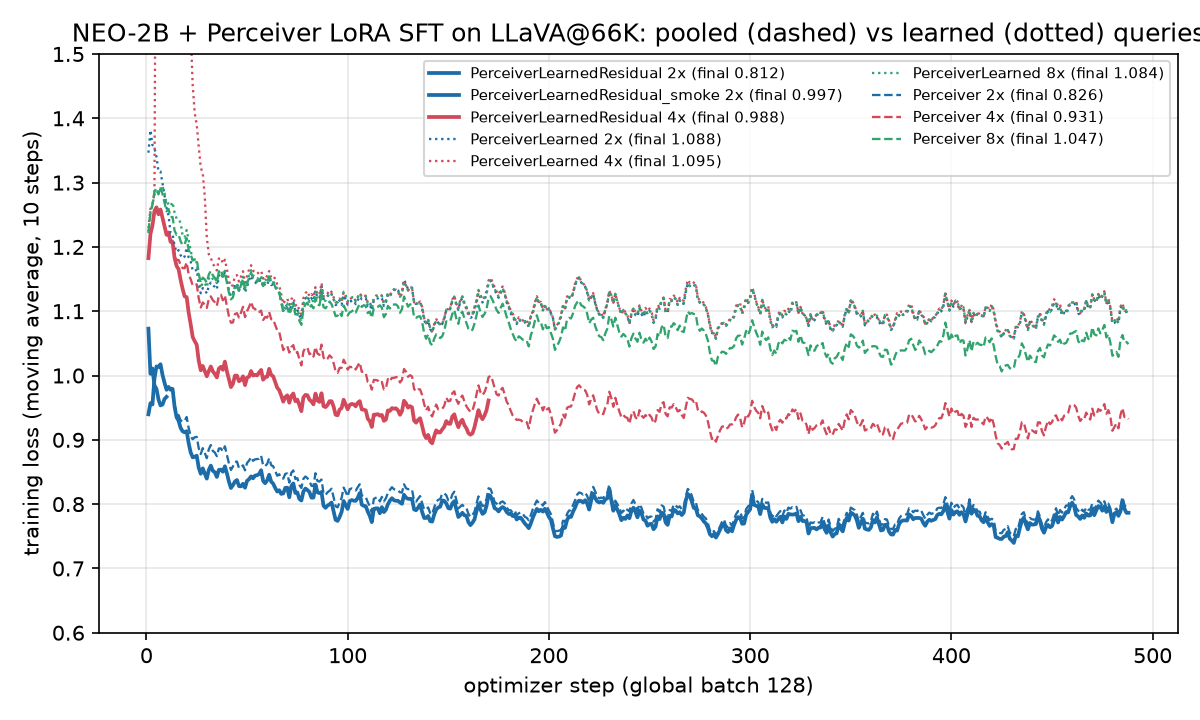
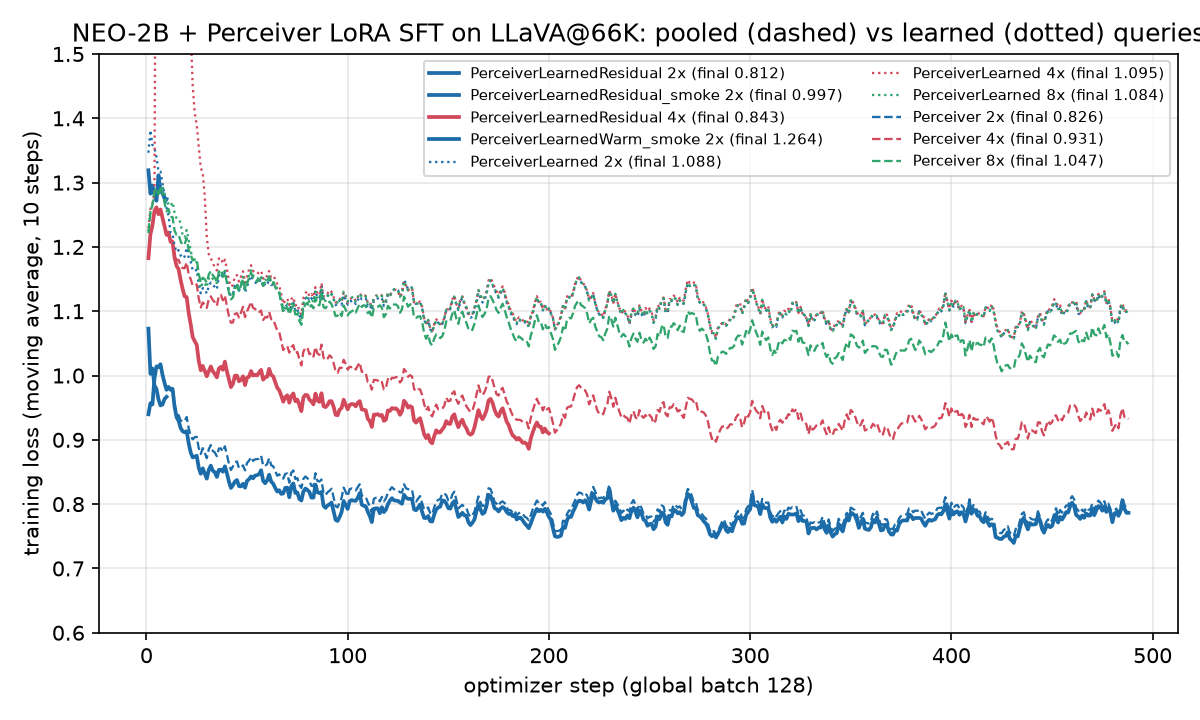
perceiver-learned: e005 smoke 8461971 NO-GO (steps 11-15 mean 1.236 vs 1.20 line; chain not submitted); e006 (8x learned_residual) + e007 (warm 2x seg0, 1 h) records; figure refreshed

diff --git a/research/experiments/perceiver-learned/RESULTS.md b/research/experiments/perceiver-learned/RESULTS.md
@@ -1,11 +1,13 @@
 # Results: perceiver-learned
 
-Generated by research-results from 5 records. Do not edit by hand.
+Generated by research-results from 7 records. Do not edit by hand.
 
-| id | batch | parent | status | sha | gpu_hours | loss_learned_trained | loss_learned_zeros | loss_learned_noise | loss_pooled_trained | loss_pooled_zeros | loss_base_fixed2x | loss_base_fixed2x_zeros | loss_base_learned_init | loss_base_none | learned_output_pairwise_cosine | learned_init_output_pairwise_cosine | learned_attn_entropy_over_logN | pooled_output_pairwise_cosine | pooled_attn_entropy_over_logN | learned_latents_rms_after_training | smoke_loss_steps1to5_mean | smoke_loss_max_steps1to16 | smoke_sec_per_step | resume_step11_loss_delta | final_loss_ma10 | final_loss_ma50 | pooled2x_final_loss_ma10 | train_sec_per_step | train_hours | mmbench | docvqa | pooled2x_mmbench | pooled2x_docvqa | gate_passed | probe_residual_trained | probe_residual_no_latents | probe_residual_fixed | probe_residual_zeros | probe_pooled_trained | probe_delta_trained_minus_no_latents | probe_delta_trained_minus_fixed | probe_delta_trained_minus_pooled | latent_term_rms_over_pooled_query_rms | latents_rms | attn_gate_tanh | mlp_gate_tanh | residual_attn_entropy_over_logN | residual_attn_max_weight | residual_output_cosine_to_fixed_pooling | residual_output_rel_rms_change_from_fixed_pooling | mlp_branch_rms_unit_input | implied_native_token_rms | mme | mmmu | rwqa | textvqa | ocrbench | chartqa | pooled2x_mme | pooled2x_mmmu | pooled2x_rwqa | pooled2x_textvqa | pooled2x_ocrbench | pooled2x_chartqa | warm_native_rms | warm_mean_grid_rms_raw | warm_mean_grid_spatial_dev_rms | warm_scale | warm_n_images | hypothesis |
-|---|---|---|---|---|---|---|---|---|---|---|---|---|---|---|---|---|---|---|---|---|---|---|---|---|---|---|---|---|---|---|---|---|---|---|---|---|---|---|---|---|---|---|---|---|---|---|---|---|---|---|---|---|---|---|---|---|---|---|---|---|---|---|---|---|---|---|---|---|---|---|
-| e001 | b001 |  | done | 94091f4 | 0.1 | 0.9583 | 1.224 | 1.025 | 0.6443 | 1.341 | 0.8225 | 1.431 | 1.22 | 0.7184 | 0.9999 | 0.9953 | 0.9902 | 0.69 | 0.957 | 0.02 |  |  |  |  |  |  |  |  |  |  |  |  |  |  |  |  |  |  |  |  |  |  |  |  |  |  |  |  |  |  |  |  |  |  |  |  |  |  |  |  |  |  |  |  |  |  |  |  |  | Tests cause (a) of the direction doc (signal, not optimisation): the LLM under the PerceiverLearned-2x LoRA has |
-| e002 | b002 | e001 | done | 43311d8 | 14.98 |  |  |  |  |  |  |  |  |  |  |  |  |  |  |  | 0.979 | 1.094 | 89 | 0 | 0.7865 | 0.7835 | 0.7948 | 86.9 | 12 | 73.37 | 40 | 74.31 | 37.33 | 1 |  |  |  |  |  |  |  |  |  |  |  |  |  |  |  |  |  |  |  |  |  |  |  |  |  |  |  |  |  |  |  |  |  |  |  | Tests causes (a)+(b) together (backlog item 2): a Perceiver whose learned latent queries are a zero-initialised |
-| e003 | b003 | e002 | done | 12a1540 | 2.44 |  |  |  |  |  |  |  |  |  |  |  |  |  |  |  |  |  |  |  |  |  |  |  |  | 73.37 | 40 |  |  |  | 0.635 | 0.6361 | 0.6661 | 1.332 | 0.6443 | -0.001 | -0.0311 | -0.0093 | 0.0023 | 0.0129 | 0.0001 | 0.01 | 0.0255 | 0.928 | 0.946 | 0.33 | 19.4 | 4.66 | 1527 | 47 | 59.22 | 33.42 | 20.7 | 40.24 | 1524 | 46.89 | 57.65 | 32.38 | 20.8 | 40.12 |  |  |  |  |  | Follow-up to e002 (cause (b) fixed by construction, gate passed). Two questions. (1) Mechanism: the latents of the |
-| e004 | b004 | e002 | submitted | 12a1540 |  |  |  |  |  |  |  |  |  |  |  |  |  |  |  |  |  |  |  |  |  |  |  |  |  |  |  |  |  |  |  |  |  |  |  |  |  |  |  |  |  |  |  |  |  |  |  |  |  |  |  |  |  |  |  |  |  |  |  |  |  |  |  |  |  | Backlog item 4, first half: the fix of e002 (pooled-anchored learned queries, init = fixed pooling) carries to 4x, |
-| e005 | b005 | e003 | submitted | 99d7de0 |  |  |  |  |  |  |  |  |  |  |  |  |  |  |  |  |  |  |  |  |  |  |  |  |  |  |  |  |  |  |  |  |  |  |  |  |  |  |  |  |  |  |  |  |  |  |  |  |  |  |  |  |  |  |  |  |  |  |  |  | 4.521 | 2.941 | 0.5304 | 1.537 | 256 | Backlog item 3, tests cause (b) in isolation on the paper-faithful architecture: the `learned` Perceiver (image-independ |
+| id | batch | parent | status | sha | gpu_hours | loss_learned_trained | loss_learned_zeros | loss_learned_noise | loss_pooled_trained | loss_pooled_zeros | loss_base_fixed2x | loss_base_fixed2x_zeros | loss_base_learned_init | loss_base_none | learned_output_pairwise_cosine | learned_init_output_pairwise_cosine | learned_attn_entropy_over_logN | pooled_output_pairwise_cosine | pooled_attn_entropy_over_logN | learned_latents_rms_after_training | smoke_loss_steps1to5_mean | smoke_loss_max_steps1to16 | smoke_sec_per_step | resume_step11_loss_delta | final_loss_ma10 | final_loss_ma50 | pooled2x_final_loss_ma10 | train_sec_per_step | train_hours | mmbench | docvqa | pooled2x_mmbench | pooled2x_docvqa | gate_passed | probe_residual_trained | probe_residual_no_latents | probe_residual_fixed | probe_residual_zeros | probe_pooled_trained | probe_delta_trained_minus_no_latents | probe_delta_trained_minus_fixed | probe_delta_trained_minus_pooled | latent_term_rms_over_pooled_query_rms | latents_rms | attn_gate_tanh | mlp_gate_tanh | residual_attn_entropy_over_logN | residual_attn_max_weight | residual_output_cosine_to_fixed_pooling | residual_output_rel_rms_change_from_fixed_pooling | mlp_branch_rms_unit_input | implied_native_token_rms | mme | mmmu | rwqa | textvqa | ocrbench | chartqa | pooled2x_mme | pooled2x_mmmu | pooled2x_rwqa | pooled2x_textvqa | pooled2x_ocrbench | pooled2x_chartqa | warm_native_rms | warm_mean_grid_rms_raw | warm_mean_grid_spatial_dev_rms | warm_scale | warm_n_images | smoke_loss_steps6to10_mean | smoke_loss_steps11to15_mean | smoke_loss_max_steps1to15 | smoke_steps_done | resid_smoke_steps11to15_mean | collapsed2x_steps11to15_mean | chain_submitted | hypothesis |
+|---|---|---|---|---|---|---|---|---|---|---|---|---|---|---|---|---|---|---|---|---|---|---|---|---|---|---|---|---|---|---|---|---|---|---|---|---|---|---|---|---|---|---|---|---|---|---|---|---|---|---|---|---|---|---|---|---|---|---|---|---|---|---|---|---|---|---|---|---|---|---|---|---|---|---|---|---|---|
+| e001 | b001 |  | done | 94091f4 | 0.1 | 0.9583 | 1.224 | 1.025 | 0.6443 | 1.341 | 0.8225 | 1.431 | 1.22 | 0.7184 | 0.9999 | 0.9953 | 0.9902 | 0.69 | 0.957 | 0.02 |  |  |  |  |  |  |  |  |  |  |  |  |  |  |  |  |  |  |  |  |  |  |  |  |  |  |  |  |  |  |  |  |  |  |  |  |  |  |  |  |  |  |  |  |  |  |  |  |  |  |  |  |  |  |  |  | Tests cause (a) of the direction doc (signal, not optimisation): the LLM under the PerceiverLearned-2x LoRA has |
+| e002 | b002 | e001 | done | 43311d8 | 14.98 |  |  |  |  |  |  |  |  |  |  |  |  |  |  |  | 0.979 | 1.094 | 89 | 0 | 0.7865 | 0.7835 | 0.7948 | 86.9 | 12 | 73.37 | 40 | 74.31 | 37.33 | 1 |  |  |  |  |  |  |  |  |  |  |  |  |  |  |  |  |  |  |  |  |  |  |  |  |  |  |  |  |  |  |  |  |  |  |  |  |  |  |  |  |  |  | Tests causes (a)+(b) together (backlog item 2): a Perceiver whose learned latent queries are a zero-initialised |
+| e003 | b003 | e002 | done | 12a1540 | 2.44 |  |  |  |  |  |  |  |  |  |  |  |  |  |  |  |  |  |  |  |  |  |  |  |  | 73.37 | 40 |  |  |  | 0.635 | 0.6361 | 0.6661 | 1.332 | 0.6443 | -0.001 | -0.0311 | -0.0093 | 0.0023 | 0.0129 | 0.0001 | 0.01 | 0.0255 | 0.928 | 0.946 | 0.33 | 19.4 | 4.66 | 1527 | 47 | 59.22 | 33.42 | 20.7 | 40.24 | 1524 | 46.89 | 57.65 | 32.38 | 20.8 | 40.12 |  |  |  |  |  |  |  |  |  |  |  |  | Follow-up to e002 (cause (b) fixed by construction, gate passed). Two questions. (1) Mechanism: the latents of the |
+| e004 | b004 | e002 | submitted | 12a1540 |  |  |  |  |  |  |  |  |  |  |  |  |  |  |  |  |  |  |  |  |  |  |  |  |  |  |  |  |  |  |  |  |  |  |  |  |  |  |  |  |  |  |  |  |  |  |  |  |  |  |  |  |  |  |  |  |  |  |  |  |  |  |  |  |  |  |  |  |  |  |  |  | Backlog item 4, first half: the fix of e002 (pooled-anchored learned queries, init = fixed pooling) carries to 4x, |
+| e005 | b005 | e003 | done | 99d7de0 | 0.47 |  |  |  |  |  |  |  |  |  |  |  |  |  |  |  | 1.272 |  | 89.5 |  |  |  |  |  |  |  |  |  |  |  |  |  |  |  |  |  |  |  |  |  |  |  |  |  |  |  |  |  |  |  |  |  |  |  |  |  |  |  |  |  | 4.521 | 2.941 | 0.5304 | 1.537 | 256 | 1.277 | 1.236 | 1.509 | 15 | 0.93 | 1.202 | 0 | Backlog item 3, tests cause (b) in isolation on the paper-faithful architecture: the `learned` Perceiver (image-independ |
+| e006 | b006 | e004 | submitted | PENDING |  |  |  |  |  |  |  |  |  |  |  |  |  |  |  |  |  |  |  |  |  |  |  |  |  |  |  |  |  |  |  |  |  |  |  |  |  |  |  |  |  |  |  |  |  |  |  |  |  |  |  |  |  |  |  |  |  |  |  |  |  |  |  |  |  |  |  |  |  |  |  |  | Backlog item 4, second half: the e002 fix (pooled-anchored learned queries, init = fixed pooling, compressor lr 1e-3) |
+| e007 | b007 | e005 | submitted | PENDING |  |  |  |  |  |  |  |  |  |  |  |  |  |  |  |  |  |  |  |  |  |  |  |  |  |  |  |  |  |  |  |  |  |  |  |  |  |  |  |  |  |  |  |  |  |  |  |  |  |  |  |  |  |  |  |  |  |  |  |  |  |  |  |  |  |  |  |  |  |  |  |  | Closes the gap e005 left open. The e005 smoke stopped at step 15 with the loss flat at 1.24, but with `o_proj` and `mlp. |

diff --git a/research/experiments/perceiver-learned/e005.md b/research/experiments/perceiver-learned/e005.md
@@ -3,7 +3,7 @@ id: e005
 direction: perceiver-learned
 batch: b005
 parent: e003
-status: submitted
+status: done
 created: 2026-11-09T22:50:00
 sha: 99d7de0
 cluster: ascend
@@ -17,8 +17,10 @@ config:
   compressor_lr: 1e-3 (learned rows used 1e-4; e002/e004 learned_residual 1e-3)
   run_name: "NEO_continue_SFT_LLaVA_OV_llava66k_PerceiverLearnedWarm_2x (smoke suffix _smoke)"
   config_key: NEO-2B-SFT-OV-LLaVA-llava66k-PerceiverLearnedWarm-2x
-metrics: {warm_native_rms: 4.5209, warm_mean_grid_rms_raw: 2.9405, warm_mean_grid_spatial_dev_rms: 0.5304, warm_scale: 1.537, warm_n_images: 256}
-gpu_hours: null
+metrics: {warm_native_rms: 4.5209, warm_mean_grid_rms_raw: 2.9405, warm_mean_grid_spatial_dev_rms: 0.5304, warm_scale: 1.537, warm_n_images: 256,
+  smoke_loss_steps1to5_mean: 1.272, smoke_loss_steps6to10_mean: 1.277, smoke_loss_steps11to15_mean: 1.236, smoke_loss_max_steps1to15: 1.509,
+  smoke_steps_done: 15, smoke_sec_per_step: 89.5, resid_smoke_steps11to15_mean: 0.930, collapsed2x_steps11to15_mean: 1.202, chain_submitted: 0}
+gpu_hours: 0.47
 ---
 ## Hypothesis
 Backlog item 3, tests cause (b) in isolation on the paper-faithful architecture: the `learned` Perceiver (image-independent
@@ -85,8 +87,49 @@ Submitted 2026-11-09 22:55 at 99d7de0 from the OSC checkout: build 8461970 (`pl_
 So the mean native token map is mostly one common direction (82% of its RMS) with an 18% spatial part; the latent grid
 starts at native scale with that structure. Smoke 8461971 started 22:53 on debug-nextgen (queue wait 0 s).
 
+### Smoke 8461971 (debug-nextgen, TIMEOUT at 25:17 as planned, 0.42 GPU-h; node a0167)
+Model load + data 2.5 min, then 89.5 s/step; 15 steps logged (step 16 did not fit), `checkpoint-10` written (strict warm-start
+load confirmed in the log: "Loading Perceiver weights from .../init/perceiver_learned_warm_2x.bin", 55.05 M trainable). Same
+data order as the e002 smoke (`llava_665k%1`, 49-step schedule):
+
+| step | 1 | 2 | 3 | 4 | 5 | 6 | 7 | 8 | 9 | 10 | 11 | 12 | 13 | 14 | 15 |
+|---|---|---|---|---|---|---|---|---|---|---|---|---|---|---|---|
+| warm `learned` (this) | 1.319 | 1.246 | 1.321 | 1.240 | 1.232 | 1.509 | 1.141 | 1.258 | 1.213 | 1.264 | 1.339 | 1.222 | 1.154 | 1.229 | 1.237 |
+| grad norm | 0.87 | 0.75 | 0.64 | 0.64 | 0.62 | 13.8 | 1.28 | 0.48 | 0.45 | 0.49 | 0.71 | 0.78 | 0.49 | 0.39 | 0.38 |
+| `learned_residual` smoke 8387554 (e002, same data) | 1.073 | 0.932 | 1.028 | 0.905 | 0.957 | 0.882 | 0.897 | 0.965 | 1.032 | 0.997 | 1.094 | 0.814 | 0.893 | 0.918 | 0.933 |
+
+| window | this | e002 smoke (same data) | collapsed `learned` 2x (full data) | prediction | score |
+|---|---|---|---|---|---|
+| steps 1-5 mean | 1.272 | 0.979 | 1.340 | [1.15, 1.40] | HIT |
+| steps 6-10 mean | 1.277 | 0.955 | | | |
+| steps 11-15 mean (11-16 planned) | **1.236** | 0.930 | 1.202 | 1.05-1.20 | MISS (above) |
+| go/no-go (chain if < 1.10, abort if >= 1.20) | NO-GO | | | P(submit) 0.45 | abort branch |
+
+The loss does not move in 15 steps: steps 1-5, 6-10 and 11-15 are 1.27 / 1.28 / 1.24, 0.30 nats above the pooled-anchored
+module on the same batches and indistinguishable from the collapsed random-init run (1.20 on different data). The one
+spike (step 6, loss 1.51, grad norm 13.8) is the same event the collapsed `learned` runs show at steps 5-11 (grad norms
+10-16, e002/e004 notes); the pooled-anchored smoke has no such spike. Chain NOT submitted (pre-registered rule). e005 cost:
+build 0.05 + smoke 0.42 = 0.47 GPU-h.
+
 ## Interpretation
-(pending)
+The warm start did what the build predicted (latents at native RMS, 82% common direction + 18% spatial structure) and the
+module loaded and trained without error, but the smoke gives the paper-faithful architecture no credit: with `o_proj` and
+`mlp.2` at zero the first forward emits the same image-independent grid for every image, so at step 1 the LLM receives
+exactly zero image information (loss 1.32; the random-init collapsed run started at 1.34), and the only way image content
+can enter is through `o_proj` growing from exactly zero at compressor lr 1e-3. Adam moves each entry by about lr per step,
+so after the 10-step warmup plus 5 full-lr steps the attention branch is a few percent of the native-RMS latent, which is
+below what the LLM can read (e001: even a single global image vector is worth 0.27 nats, and this run shows no such gain by
+step 15). So the measured outcome is consistent with both readings, "image-independent queries are untrainable at this
+data scale" (the direction's counter-argument) and "the zeroed residual branches need tens of full-lr steps before any
+signal appears"; the smoke window, fixed before this was worked out, cannot separate them. What is settled: warm-starting
+alone does not make the paper-faithful module start anywhere near the pooled-anchored one (0.30 nats apart on identical
+batches over 15 steps), so cause (b) as "scale at init" is not the whole story for this architecture; the pooled anchor
+(e002) is what gives per-position image content from step 1. The pre-registered abort stands (no 14.5 GPU-h chain on this
+evidence). e007 tests the residual-growth caveat for 1 GPU-h: the same configuration on the real schedule and data for one
+1 h debug segment (about 37 steps, checkpoint-30 reusable as segment 0 of the chain if it goes), scored at steps 25-37
+against the three paired full-data curves (pooled 2x 0.885, learned_residual 2x 0.853, collapsed learned 2x 1.147).
 
 ## Next
-(pending)
+e007 (1 h, debug-nextgen): warm-started `learned` on `llava_665k%10`, go/no-go at steps 25-37 (< 1.10 submits the 4 x 4 h
+chain resuming from its checkpoint; otherwise the paper-faithful variant is recorded as failing at this data scale from a
+good init and backlog item 3 is closed). e006: the 8x `learned_residual` row (backlog item 4) in parallel.

diff --git a/research/experiments/perceiver-learned/e006.md b/research/experiments/perceiver-learned/e006.md
@@ -1,0 +1,60 @@
+---
+id: e006
+direction: perceiver-learned
+batch: b006
+parent: e004
+status: submitted
+created: 2026-11-09T23:40:00
+sha: PENDING
+cluster: ascend
+jobs: []
+config:
+  tier: training tier 3 (nextgen, chain of 4 x 4 h segments, afterany; segments appended as in-flight ids free up), eval tier 3 (nextgen array, 8 tasks, afterok last segment)
+  queries: learned_residual
+  ratio: 8x
+  recipe: SFT_perceiver.sh unchanged (Paranioar/NEO1_0-2B-SFT, llava_665k%10, LoRA lr 2e-5, global batch 128, 488 steps, warmup 10)
+  compressor_lr: 1e-3 (as e002/e004; pooled 8x row used 2e-5)
+  run_name: NEO_continue_SFT_LLaVA_OV_llava66k_PerceiverLearnedResidual_8x
+  config_key: NEO-2B-SFT-OV-LLaVA-llava66k-PerceiverLearnedResidual-8x
+  eval: all 8 benchmarks (DATASETS override, one array)
+metrics: {}
+gpu_hours: null
+---
+## Hypothesis
+Backlog item 4, second half: the e002 fix (pooled-anchored learned queries, init = fixed pooling, compressor lr 1e-3)
+carries to 8x, where the pooled module trained to 44.07 MMBench / 9.78 DocVQA (final MA-10 loss 1.049) and the
+paper-faithful `learned` module collapsed to 26.98 / 7.01 (1.094). e004 (4x, 200 steps so far) shows the gap to the pooled
+curve growing with the ratio (-0.013 nats at 2x, -0.062 at 4x, paired), which e003 attributes to the per-token MLP branch
+moving at the higher compressor lr; at 8x the branch has the most to do (each output token summarises 8 patches), so the
+loss gap should be at least as large, but the benchmark ceiling at 8x is low (pooled 8x is 26 pts below the 2x row), so
+the gain in points may not show.
+
+## Prediction (before submission)
+- Throughput 84-89 s/step (e004 at 4x: 87-88) (confidence 0.7); 3 x 4 h cover about 480 steps, seg4 runs under 40 min (0.6).
+- Training loss MA-10 at step 488 in 0.96-1.04 (pooled 8x 1.049, collapsed learned 8x 1.094) (0.65); paired over steps
+  1-200 below pooled 8x by 0.03-0.10 nats (0.55; e004 4x: -0.062 over steps 1-170).
+- MMBench 43-48, DocVQA 8-13 (0.6 each); within 2 pts of pooled 8x on MMBench and within 5 on DocVQA (the item-4
+  criterion) (0.65). MME 1000-1120, OCRBench 1-5, ChartQA 20-30 (0.5).
+- Cost: training 12.2-12.6 GPU-h (4 x 4 h minus the idle part of seg4), eval about 4.5 GPU-h (8x evals are faster than
+  4x; e003's 2x evals cost 2.4 for six benchmarks + 2.2 for the gate pair); e006 total about 17 GPU-h.
+
+## Change
+No code change (sha below = records only on top of 99d7de0; `SFT_perceiver.sh`, `perceiver.py`, `config.py` as in e004).
+The 8x `learned_residual` init was checked equal to fixed pooling 8x by `scripts/test_perceiver_modes.py` in e002 (tier 1);
+the same job command ran at 2x (e002) and 4x (e004), so no separate smoke. Jobs from `$WT/VLMEvalKit/vlmeval/VLMTrainKit`
+with `RATIO=8 QUERIES=learned_residual REPO=$WT` exported, `--export=ALL`, `--time=4:00:00`, nextgen, names `plr8x_seg<k>`,
+logs `logs/plr8x_seg<k>_<id>.log`. In-flight cap 6: this wake submits seg1 only (the e004 chain + eval array hold 4 ids,
+e007 takes the sixth); seg2-4 (`afterany` on the previous segment) and the eval array (`afterok` seg4, `--time=3:00:00`,
+`MODELS=NEO-2B-SFT-OV-LLaVA-llava66k-PerceiverLearnedResidual-8x`, `DATASETS="MMBench_DEV_EN MME MMMU_DEV_VAL RealWorldQA
+TextVQA_VAL DocVQA_VAL OCRBench ChartQA_TEST"`) are appended at the next wakes as e004 segments and e007 finish; a segment
+that starts with no successor simply ends at walltime with its checkpoint, and the next segment resumes it.
+Output dir `$SCRATCH/VTC-Native-Eval-ckpts/output/NEO_continue_SFT_LLaVA_OV_llava66k_PerceiverLearnedResidual_8x` (absent at submission).
+
+## Outcome
+(pending)
+
+## Interpretation
+(pending)
+
+## Next
+(pending)

diff --git a/research/experiments/perceiver-learned/e007.md b/research/experiments/perceiver-learned/e007.md
@@ -1,0 +1,59 @@
+---
+id: e007
+direction: perceiver-learned
+batch: b007
+parent: e005
+status: submitted
+created: 2026-11-09T23:40:00
+sha: PENDING
+cluster: ascend
+jobs: []
+config:
+  tier: tier 2 (debug-nextgen, one 1 h segment of the real run; the 4 x 4 h nextgen chain resumes from its checkpoint only if the go rule fires)
+  queries: learned (paper-faithful architecture, warm-started via INIT_FROM as in e005)
+  ratio: 2x
+  init: $SCRATCH/VTC-Native-Eval-ckpts/init/perceiver_learned_warm_2x.bin (e005 build 8461970)
+  recipe: SFT_perceiver.sh unchanged (Paranioar/NEO1_0-2B-SFT, llava_665k%10, LoRA lr 2e-5, global batch 128, 488-step schedule, warmup 10)
+  compressor_lr: 1e-3
+  run_name: NEO_continue_SFT_LLaVA_OV_llava66k_PerceiverLearnedWarm_2x
+  config_key: NEO-2B-SFT-OV-LLaVA-llava66k-PerceiverLearnedWarm-2x
+metrics: {}
+gpu_hours: null
+---
+## Hypothesis
+Closes the gap e005 left open. The e005 smoke stopped at step 15 with the loss flat at 1.24, but with `o_proj` and `mlp.2`
+zero-initialised the image-dependent part of every output token has to grow from exactly zero through Adam updates of
+about lr (1e-3) per entry per step, so at step 15 it is a few percent of the native-RMS latent and the LLM cannot read it
+yet; the window was too early by construction. The question is whether, on the real schedule (488 steps, warmup 10, so
+steps 11-37 run at the full compressor lr) and the real data order, the module separates from the collapsed random-init
+run by steps 25-37. Cause (b) in isolation on the paper-faithful architecture, as in e005; if the loss stays with the
+collapsed curve for 37 full-schedule steps while the pooled-anchored module is 0.3 nats lower on the same batches,
+backlog item 3 is closed as "the paper's architecture does not train from a good init at this data scale" and the
+`learned_residual` rows stand as the direction's answer.
+
+## Prediction (before submission)
+- 1 h on debug-nextgen = load 3 min + 89 s/step => 36-38 steps logged, `checkpoint-30` written (confidence 0.75).
+- Steps 1-5 mean 1.25-1.40 (0.7; the collapsed `learned` 2x run, same data order, had 1.340; e005's smoke 1.272).
+- Steps 25-37 mean, paired against the same window of the full-data curves (pooled 2x 0.885, learned_residual 2x 0.853,
+  collapsed learned 2x 1.147): in [1.10, 1.25] (0.5); below 1.10 (0.25); at or above 1.25 (0.25).
+- Go/no-go: steps 25-37 mean < 1.10 => submit the 4 x 4 h `nextgen` chain (resumes from checkpoint-30, nothing lost) plus
+  the gate evals at the next wake (about 13.5 GPU-h more); >= 1.10 => abort, record, close backlog item 3. P(go) = 0.25.
+- Cost: 1.0 GPU-h (walltime kill at 1 h). If the chain goes, the e005 full-run predictions apply (final MA-10 0.80-0.95,
+  MMBench 68-73, DocVQA 25-35, all at 0.4).
+
+## Change
+No code change. Job from `$WT/VLMEvalKit/vlmeval/VLMTrainKit`: `RATIO=2 QUERIES=learned INIT_FROM=<init bin> REPO=$WT
+sbatch --export=ALL --partition=debug-nextgen --time=1:00:00 --job-name=plw2x_seg0 SFT_perceiver.sh` (no `DATASETS`,
+no `SUFFIX`: this is segment 0 of the real run, output dir
+`$SCRATCH/VTC-Native-Eval-ckpts/output/NEO_continue_SFT_LLaVA_OV_llava66k_PerceiverLearnedWarm_2x`, absent at submission).
+Log `logs/plw2x_seg0_<id>.log`. Same script and environment as the e005 smoke (which ran clean), only the dataset,
+suffix, partition time differ.
+
+## Outcome
+(pending)
+
+## Interpretation
+(pending)
+
+## Next
+(pending)

diff --git a/research/directions/perceiver-learned.md b/research/directions/perceiver-learned.md
@@ -8,10 +8,9 @@ cluster: ascend
 status: active
 wake: on_jobs
 budget_gpu_hours: 100
-spent_gpu_hours: 21.87
+spent_gpu_hours: 22.95
 max_jobs_in_flight: 6
 jobs:
-- 8461971
 - 8453616
 - 8453617
 - 8453618
@@ -40,13 +39,14 @@ jobs_archived:
 - 8454045
 - 8453615
 - 8461970
-last_wake: '2026-11-09T22:50:00-05:00'
-next_id: 6
+- 8461971
+last_wake: '2026-11-09T23:35:00-05:00'
+next_id: 8
 model: claude-fable-5-1
 effort: high
 max_turns: 120
 timeout_minutes: 60
-wakes: 7
+wakes: 8
 ---
 # Why does the learned-query Perceiver collapse, and what fixes it?
 

diff --git a/research/experiments/perceiver-learned/e004.md b/research/experiments/perceiver-learned/e004.md
@@ -81,6 +81,9 @@ Loss so far (170 steps, paired with the pooled 4x run, same data order):
 The gap to pooled 4x is 0.06 nats, five times the 2x gap of e002 (0.01). Prediction "below the pooled 4x curve by
 0.005-0.03 nats paired": on track to MISS on the low side (the gap is larger). Figure regenerated.
 
+Seg2 at step 200 (2026-11-09 23:35 wake): steps 171-200 mean 0.906 vs pooled 4x 0.941 (paired -0.035); steps 1-200 mean
+0.972 vs 1.029 (-0.057). Figure regenerated.
+
 ## Interpretation
 (pending)
 
